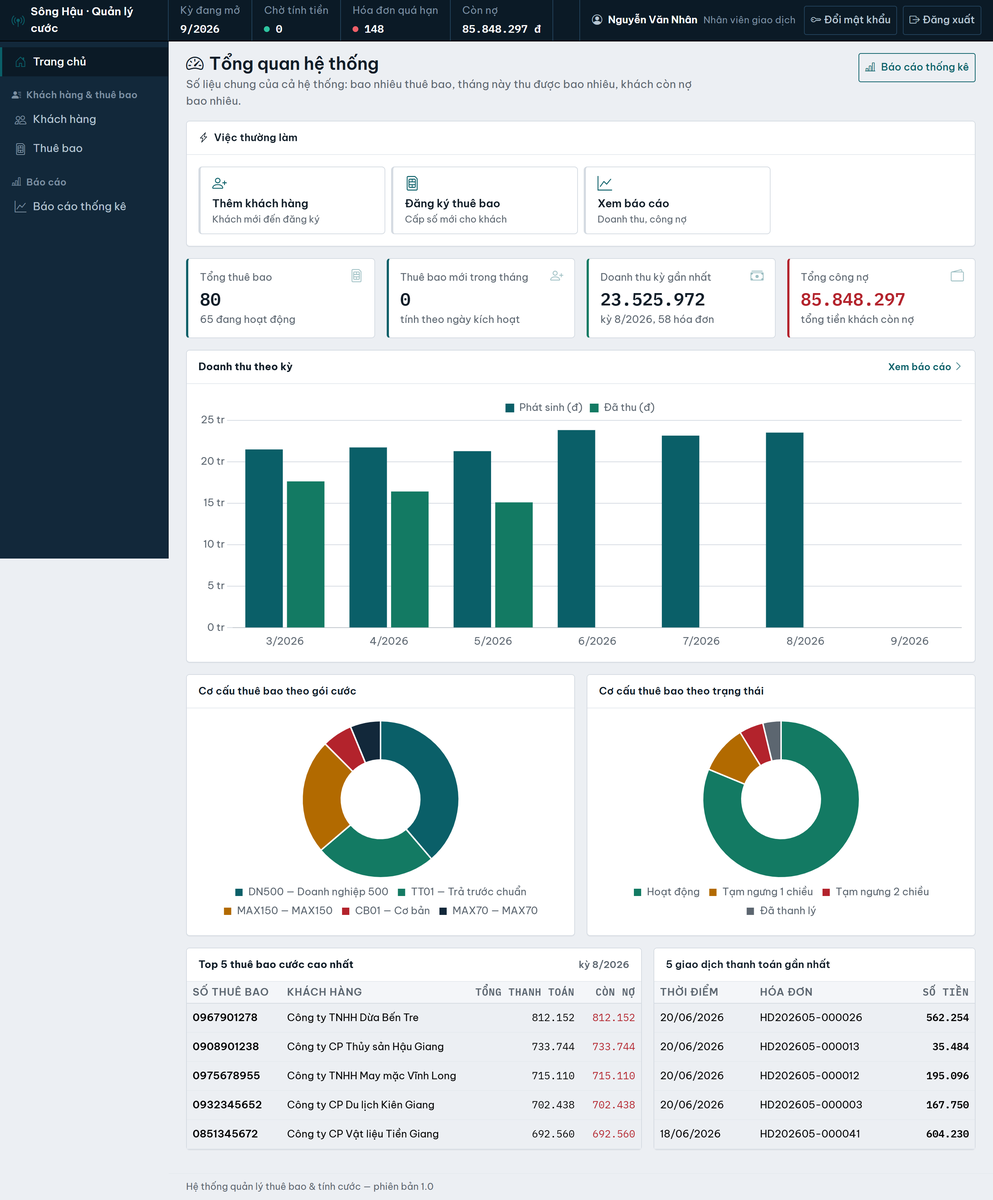
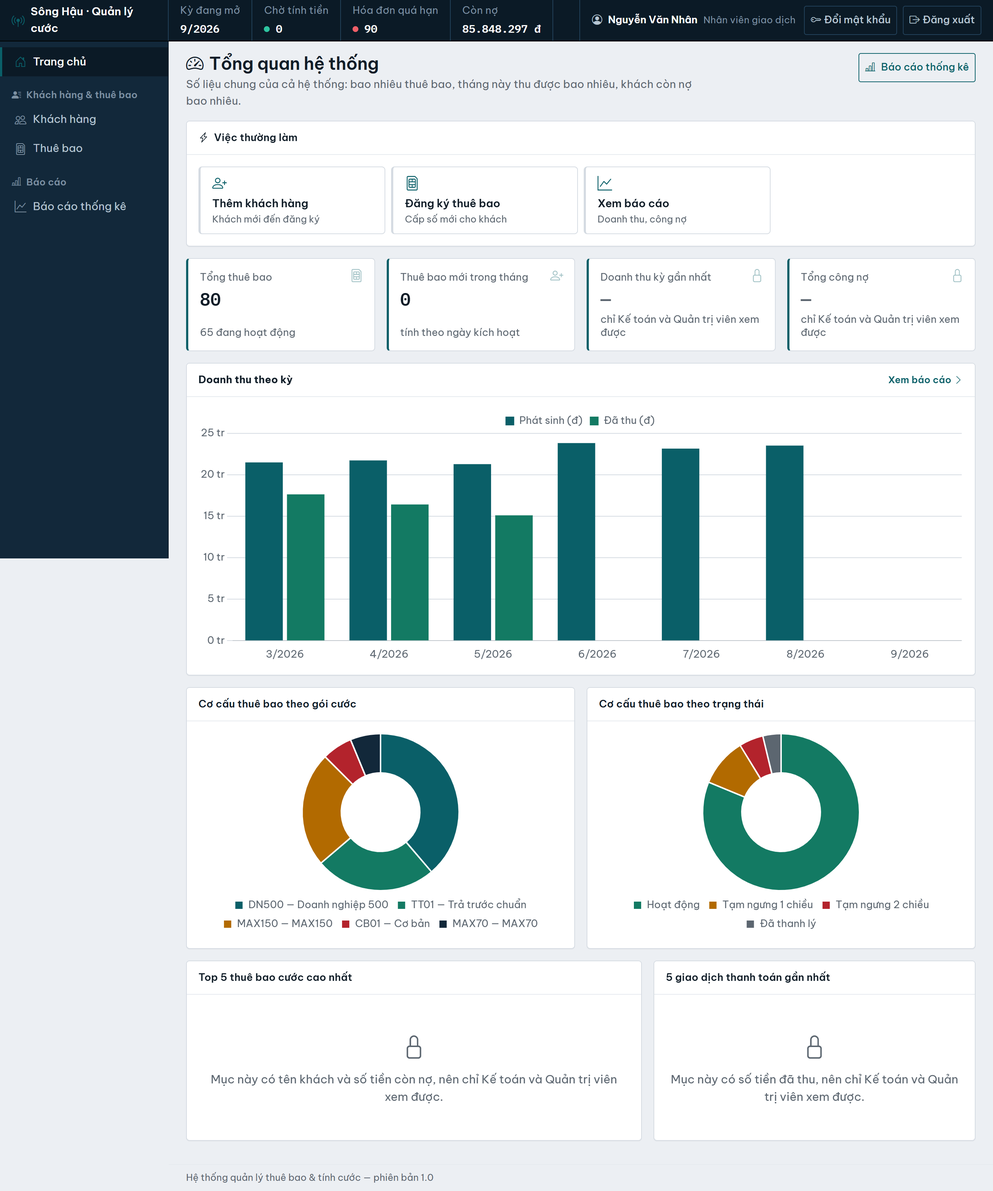
Rao bon khoi tien tren trang chu theo vai tro; chup them 12 anh
A. SUA LO HONG PHAN QUYEN — chi trong templates/index.html
Bon khoi tien (Doanh thu ky gan nhat :121, Tong cong no :135, Top 5 thue bao
:185, 5 giao dich gan nhat :220) truoc day KHONG co sec:authorize, trong khi
SecurityConfig:108-111 chan nhan vien o /bao-cao/top-thue-bao/** vi dung noi
dung do. Nhan vien bi 403 o bao cao nhung nhin duoc ten khach + so no ngay
tren trang chu. Rao ca bon bang hasAnyRole('KE_TOAN','ADMIN'); vai tro khac
nhan the THAY THE cung khung, bieu tuong khoa, mot cau noi ro vi sao — khong
de trong, luoi bon the khong vo. KHONG sua SecurityConfig.

  admin 4 khoi · ketoan01 4 · nhanvien01 0 (4 the khoa)
DOI CHUNG AM: bo dung mot rao (Tong cong no), dung lai, phep kiem keu
"nhanvien01 1 khoi · Tong cong no". Khoi phuc -> dat lai.
Sau sua: mvnw test 342/342 · 8 script 215/215 · 3 phep kiem template dat.

HAI CHO TIEN CON SOT, ngoai pham vi "chi sua index.html" — bao, chua sua:
  1. thanh may (layout.html) hien "Con no 85.848.297 d" cho moi vai tro —
     dung con so vua bi khoa o the Tong cong no ben duoi
  2. bieu do Doanh thu theo ky + link Xem bao cao -> /bao-cao/doanh-thu-ky
     (nhan vien bam vao nhan 403)

MENU TREN RAIL (phep kiem phan quyen cho anh 03/63/65, dem tren DOM):
  admin 14 · nhanvien01 4 · ketoan01 6. Doi chung: admin vs admin -> bang nhau.

B/C/D. 12 ANH MOI, du lieu kiem SAU TUNG ANH — khong lech lan nao:
  63  chup lai sau khi rao — 4 the khoa, khong con ten khach/so tien
[…]

diff --git a/src/main/resources/templates/index.html b/src/main/resources/templates/index.html
@@ -116,8 +116,18 @@
                 <i class="bi bi-person-plus"></i>
             </div>
         </div>
+        <!--/*
+            Bốn khối tiền dưới đây rào cùng mức với /bao-cao/top-thue-bao/** trong
+            SecurityConfig: chỉ KE_TOAN và ADMIN. Trước đợt này chúng KHÔNG có rào,
+            nên nhân viên giao dịch bị chặn ở /bao-cao/top-thue-bao (403) mà vẫn
+            nhìn được đúng bảng đó ngay trên trang chủ — phân quyền theo nội dung
+            bị hở ở chính màn hình đầu tiên sau đăng nhập.
+
+            Vai trò không được phép nhận một thẻ THAY THẾ cùng khung, nói rõ vì sao
+            không thấy — không để trống, và không làm lưới bốn thẻ vỡ.
+        */-->
         <div class="col-sm-6 col-xl-3">
-            <div class="the-so-lieu vach-on">
+            <div class="the-so-lieu vach-on" sec:authorize="hasAnyRole('KE_TOAN','ADMIN')">
                 <span class="nhan">Doanh thu kỳ gần nhất</span>
                 <span class="gia-tri" th:if="${dashboard.kyGanNhat != null}"
                       th:text="${@soLieu.tien(dashboard.kyGanNhat.phatSinh)}">0</span>
@@ -129,13 +139,25 @@
                 <span class="phu" th:if="${dashboard.kyGanNhat == null}">chưa lập hóa đơn nào</span>
                 <i class="bi bi-cash-stack"></i>
             </div>
+            <div class="the-so-lieu" sec:authorize="!hasAnyRole('KE_TOAN','ADMIN')">
+                <span class="nhan">Doanh thu kỳ gần nhất</span>
+                <span class="gia-tri trong">—</span>
+                <span class="phu">chỉ Kế toán và Quản trị viên xem được</span>
+                <i class="bi bi-lock"></i>
+            </div>
         </div>
         <div class="col-sm-6 col-xl-3">
-            <div class="the-so-lieu vach-loi">
+            <div class="the-so-lieu vach-loi" sec:authorize="hasAnyRole('KE_TOAN','ADMIN')">
                 <span class="nhan">Tổng công nợ</span>
                 <span class="gia-tri" th:text="${@soLieu.tien(dashboard.tongCongNo)}">0</span>
                 <span class="phu">tổng tiền khách còn nợ</span>
                 <i class="bi bi-wallet2"></i>
+            </div>
+            <div class="the-so-lieu" sec:authorize="!hasAnyRole('KE_TOAN','ADMIN')">
+                <span class="nhan">Tổng công nợ</span>
+                <span class="gia-tri trong">—</span>
+                <span class="phu">chỉ Kế toán và Quản trị viên xem được</span>
+                <i class="bi bi-lock"></i>
             </div>
         </div>
     </div>
@@ -180,7 +202,15 @@
     <!--/* ================== HAI BẢNG ================== */-->
     <div class="row g-3">
         <div class="col-lg-7">
-            <div class="card shadow-sm h-100">
+            <div class="card shadow-sm h-100" sec:authorize="!hasAnyRole('KE_TOAN','ADMIN')">
+                <div class="card-header bg-white fw-semibold">Top 5 thuê bao cước cao nhất</div>
+                <div class="card-body text-center text-secondary py-5">
+                    <i class="bi bi-lock d-block fs-2 mb-2"></i>
+                    Mục này có tên khách và số tiền còn nợ, nên chỉ Kế toán và Quản trị viên
+                    xem được.
+                </div>
+            </div>
+            <div class="card shadow-sm h-100" sec:authorize="hasAnyRole('KE_TOAN','ADMIN')">
                 <div class="card-header bg-white d-flex align-items-center">
                     <strong>Top 5 thuê bao cước cao nhất</strong>
                     <span class="ms-auto small text-secondary" th:if="${dashboard.kyGanNhat != null}"
@@ -216,7 +246,14 @@
             </div>
         </div>
         <div class="col-lg-5">
-            <div class="card shadow-sm h-100">
+            <div class="card shadow-sm h-100" sec:authorize="!hasAnyRole('KE_TOAN','ADMIN')">
+                <div class="card-header bg-white fw-semibold">5 giao dịch thanh toán gần nhất</div>
+                <div class="card-body text-center text-secondary py-5">
+                    <i class="bi bi-lock d-block fs-2 mb-2"></i>
+                    Mục này có số tiền đã thu, nên chỉ Kế toán và Quản trị viên xem được.
+                </div>
+            </div>
+            <div class="card shadow-sm h-100" sec:authorize="hasAnyRole('KE_TOAN','ADMIN')">
                 <div class="card-header bg-white fw-semibold">5 giao dịch thanh toán gần nhất</div>
                 <div class="card-body p-0">
                     <div class="table-responsive">

diff --git a/docs/DANH-SACH-ANH-DA-CHUP.md b/docs/DANH-SACH-ANH-DA-CHUP.md
@@ -32,6 +32,129 @@ tự mâu thuẫn với chính nó.
 
 ---
 
+## Đợt bổ sung 11/09/2026 — sửa rào phân quyền, chụp thêm 12 ảnh
+
+### A. Lỗ hổng phân quyền trên trang chủ — đã sửa, chỉ trong `index.html`
+
+Trước: bốn khối tiền — *Doanh thu kỳ gần nhất* (dòng 121), *Tổng công nợ* (135), *Top 5 thuê bao
+cước cao nhất* (185), *5 giao dịch thanh toán gần nhất* (220) — **không có `sec:authorize`**, trong
+khi `SecurityConfig:108-111` chặn nhân viên ở `/bao-cao/top-thue-bao/**` vì đúng nội dung đó.
+Nhân viên bị 403 ở báo cáo nhưng nhìn được tên khách và số nợ ngay trang chủ.
+
+Sau: cả bốn khối rào `hasAnyRole('KE_TOAN','ADMIN')`. Vai trò khác nhận **thẻ thay thế cùng khung**
+với biểu tượng khoá và một câu nói rõ vì sao — không để trống, lưới bốn thẻ không vỡ.
+**Không sửa `SecurityConfig`** — cấu hình đó đúng, template mới là chỗ sai.
+
+| Vai trò | Khối tiền thật hiện ra | Thẻ khoá | |
+|---|--:|--:|:--:|
+| admin | **4** | 0 | ✅ |
+| ketoan01 | **4** | 0 | ✅ |
+| nhanvien01 | **0** | 4 | ✅ |
+
+**Đối chứng âm:** bỏ đúng một rào (*Tổng công nợ*), dựng lại, chạy lại → phép kiểm kêu
+*"nhanvien01 1 khối · Tổng công nợ"*. Khôi phục → đạt lại.
+
+Sau sửa: `mvnw test` **342/342** · 8 script giao diện **215/215** · 3 phép kiểm template đạt.
+
+> ⚠ **Hai chỗ tiền còn sót, ngoài phạm vi "chỉ sửa `index.html`" — chưa sửa, cần bạn quyết:**
+>
+> 1. **Thanh máy** (`fragments/layout.html`) hiện *"Còn nợ 85.848.297 đ"* cho **mọi** vai trò — đúng con
+>    số vừa bị khoá ở thẻ *Tổng công nợ* ngay bên dưới. Khoá thẻ mà để nguyên thanh máy là tự mâu thuẫn.
+> 2. **Biểu đồ Doanh thu theo kỳ** (`index.html`, ngoài 4 khối đã nêu): tiền theo kỳ, kèm link *Xem báo
+>    cáo* → `/bao-cao/doanh-thu-ky` — nhân viên bấm vào nhận 403.
+
+### Số mục menu trên rail — phép kiểm phân quyền cho ảnh 03 · 63 · 65
+
+Đếm trên DOM trang thật, cùng khung 1366 với lúc chụp (rail 232px, mở đầy đủ):
+
+| Ảnh | Vai trò | Mục menu |
+|---|---|--:|
+| 03 | admin | **14** |
+| 63 | nhanvien01 | **4** |
+| 65 | ketoan01 | **6** |
+
+03 > 63 ✅ · 03 > 65 ✅. **Đối chứng âm:** admin so với chính admin → *"bằng nhau"* — phép kiểm biết kêu.
+
+### 12 ảnh mới — cách chụp và bằng chứng không ghi dữ liệu
+
+| # | Cách lấy | Dữ liệu sau khi chụp |
+|---|---|---|
+| 63 | Chụp lại sau khi rào | — |
+| 27 | Bấm *Chốt kỳ* kỳ 7 → `app.js` gọi `preventDefault()` rồi mở modal → chụp → **Esc** | kỳ 7 vẫn `MO` |
+| 08 | POST CCCD 11 số → máy chủ từ chối, form giữ nguyên dữ liệu đã nhập | `khach_hang` = 50 |
+| 35 | POST 999.999.999 đ cho hóa đơn còn nợ 160.648 đ → từ chối | `thanh_toan` = 161 |
+| 40 | POST khai **cả** tiền lẫn tỷ lệ → `@AssertTrue` từ chối | `giam_tru` = 2 |
+| 36 | POST thẳng `/tinh-cuoc/2/huy-hoa-don` (UI đã ẩn nút) → *"Kỳ cước tháng 5/2026 đã chốt, không thể hủy hóa đơn"* | `hoa_don` = 338 |
+| 37 · 38 · 51 · 52a · 52b · 80 · 81 | Ảnh **chụp tay** của bạn, đổi tên từ zip (hash khớp từng file) | — |
+
+Dữ liệu kiểm **sau từng ảnh**: 7 kỳ · 23.223 CDR · 338 hóa đơn · 161 thanh toán · kỳ 9 `MO` 0/0 — không
+lệch lần nào.
+
+> **Ảnh 36 khác mô tả trong danh sách gốc.** Danh sách ghi thông báo *"48 giao dịch"* (chặn huỷ vì đã thu
+> tiền). Nhưng kỳ 5 nay đã **`DA_CHOT`**, và rào "đã chốt" đứng **trước** rào "đã thu tiền" trong
+> `huyBillingKy`, nên thông báo thật là *"đã chốt, không thể hủy"*. Muốn ra đúng câu *"48 giao dịch"*
+> phải mở lại kỳ 5 — một thao tác ghi. Ảnh vẫn chứng minh điều quan trọng hơn: **gõ thẳng đường dẫn
+> vẫn bị chặn ở tầng nghiệp vụ** (bài học 4.4), dù giao diện đã ẩn nút.
+
+> **Hai lần chụp sai của tôi, đã chụp lại.** Ảnh 35 lượt đầu hiện *"Vui lòng chọn hình thức thanh toán"*
+> — tôi bỏ trống ô hình thức nên `@NotNull` nổ **trước** rào "vượt số còn nợ". Ảnh 40 lượt đầu lẫn hai
+> lỗi *"Vui lòng chọn…"* vì bỏ trống thuê bao và loại. Cả hai chụp lại với các ô khác đã điền đúng, để
+> **chỉ còn đúng một lỗi** cần thấy.
+
+### Thanh máy: 148 hôm qua, 90 hôm nay — không phải lỗi, nhưng cần biết
+
+Thanh máy đếm hóa đơn **theo trạng thái** `QUA_HAN`; bảng tuổi nợ đếm **theo ngày**. Hôm nay
+`test-muc-F.ps1` (một trong 8 script bạn yêu cầu chạy) huỷ rồi lập lại 58 hóa đơn kỳ 6 — hóa đơn mới
+sinh ra ở `CHUA_TT`, nên thanh máy tụt từ 148 xuống **90** dù không hóa đơn nào bớt quá hạn.
+
+`capNhatQuaHan()` chạy lúc **00:05** hằng ngày *hoặc* khi ai đó **mở `/hoa-don`** (`LichChayNenConfig`,
+thiết kế cố ý). Lần mở `/hoa-don` kế tiếp sẽ trả về 148. Tôi **không tự kích hoạt** vì đó là một thao
+tác đổi trạng thái. Hệ quả: 6 ảnh chụp hôm nay (08 · 27 · 35 · 36 · 40 · 63) ghi **90** trên thanh máy,
+55 ảnh hôm qua ghi **148**. Nếu muốn đồng nhất: mở `/hoa-don` một lần rồi chụp lại 6 ảnh đó.
+
+### F. Rail chỉ phủ khung nhìn đầu — đo trên 37 ảnh chụp cả trang có rail
+
+Rail là `position: fixed`, cao bằng khung nhìn. Đo cột x = 60px trên từng ảnh: rail dừng đúng **768px**
+ở **mọi** ảnh. Đối chứng: 9 ảnh cao ≤ 780px ra 100%, 18 ảnh cao > 1500px ra trung bình 35%.
+
+| Mức | Rail phủ | Số ảnh |
+|---|---|--:|
+| **Nặng** | dưới 60% | **20** |
+| Vừa | 60–95% | 8 |
+| Ổn | từ 95% | 9 |
+
+Danh sách ảnh **nặng** (cột tối cụt ngang rõ nhất khi in):
+
+| # | Ảnh | Cao (px) | Rail phủ |
+|---|---|--:|--:|
+| 77 | `77-hoa-don-cua-ky-8.png` | 4530 | 17% |
+| 23 | `23-doi-soat-sat-ranh-gioi-quota.png` | 3986 | 19% |
+| 22 | `22-doi-soat-vuot-quota-data.png` | 3965 | 19% |
+| 70 | `70-doi-soat-ky-8.png` | 3965 | 19% |
+| 47 | `47-bao-cao-top-thue-bao.png` | 3632 | 21% |
+| 28 | `28-danh-sach-hoa-don-ky-5.png` | 2053 | 37% |
+| 75 | `75-danh-sach-hoa-don-tat-ca.png` | 2014 | 38% |
+| 79 | `79-danh-sach-hoa-don-ky-8.png` | 2014 | 38% |
+| 6 | `06-danh-sach-khach-hang.png` | 1970 | 39% |
+| 19 | `19-tra-cuu-cdr.png` | 1962 | 39% |
+| 78 | `78-tra-cuu-cdr-co-bo-loc.png` | 1962 | 39% |
+| 46 | `46-bao-cao-thong-ke-thue-bao.png` | 1889 | 41% |
+| 20 | `20-man-hinh-tinh-cuoc.png` | 1869 | 41% |
+| 33 | `33-danh-sach-thanh-toan.png` | 1825 | 42% |
+| 3 | `03-dashboard-admin.png` | 1750 | 44% |
+| 63 | `63-dashboard-nhanvien.png` | 1650 | 47% |
+| 65 | `65-dashboard-ketoan.png` | 1650 | 47% |
+| 14 | `14-bang-gia.png` | 1526 | 50% |
+| 43 | `43-bao-cao-doanh-thu-ky.png` | 1399 | 55% |
+| 10 | `10-danh-sach-thue-bao.png` | 1370 | 56% |
+
+**Chưa sửa — bạn quyết.** Ba hướng: (a) chấp nhận, rail cụt là tính chất của ảnh cả trang; (b) chụp
+**khung nhìn** thay vì cả trang cho các trang danh sách dài — mất phần dưới nhưng rail liền; (c) chụp
+cả trang rồi cắt bỏ rail bằng `clip` từ x = 232px — mất menu nhưng ảnh sạch. Hướng (c) hợp với báo cáo
+in nhất vì menu đã có riêng ở ảnh 03/63/65.
+
+---
+
 ## Cấu hình chụp
 
 | | |
@@ -71,7 +194,7 @@ Trước khi tin bất kỳ số 0 nào, bộ kiểm tự tạo **hai ảnh mồ
 > vượt ngưỡng 40, và ảnh trắng tuyền bị tính là **100% nội dung**. Phép kiểm trắng **không bao giờ
 > nổ được**. Sửa sang lấy **tâm khoang** (`×16 + 8`) thì mồi nổ đúng.
 
-Kết quả trên **55 ảnh thật**:
+Kết quả trên **60 ảnh tự động** (chạy lại 11/09 sau khi thêm 12 ảnh; 7 ảnh chụp tay cũng qua cùng bộ kiểm):
 
 | Phép kiểm | Kết quả |
 |---|---|
@@ -80,19 +203,21 @@ Kết quả trên **55 ảnh thật**:
 | Ảnh dưới 20 KB | **0** |
 | Ảnh cao dưới 400px | **0** |
 | Trang lỗi bị chụp nhầm | **0** — ảnh 2 (403) và 59 (400) là **cố ý**, đã khai vào danh sách cho phép |
-| Thiếu sổ tay / sổ tay thừa | **0 / 0** |
+| Thiếu sổ tay / sổ tay thừa | **0 / 0** với ảnh tự động — 7 ảnh chụp tay không có sổ tay, đúng bản chất |
+| Ảnh cao dưới 400px — **4 ảnh chụp tay** (51 · 52a · 52b · 80: 161–182px) | Cảnh báo **đúng**: đó là ảnh cắt gọn một dòng console và một biểu tượng. Giữ nguyên phép kiểm, không tắt |
 
 ---
 
-## Bảng đối chiếu — 55 ảnh
+## Bảng đối chiếu — 67 ảnh
 
-| # | Tên file | URL | Vai trò | Cỡ | Kiểu chụp | Ghi chú |
+| # | Tên file | URL / nội dung | Vai trò | Cỡ | Kiểu chụp | Ghi chú |
 |---|---|---|---|--:|---|---|
 | 1 | `01-dang-nhap.png` | `/dang-nhap` | (chua dang nhap) | 59 KB | khung nhìn | — |
 | 2 | `02-trang-403.png` | `/hoa-don` | nhanvien01 | 138 KB | khung nhìn | — |
 | 3 | `03-dashboard-admin.png` | `/` | admin | 561 KB | cả trang | — |
 | 6 | `06-danh-sach-khach-hang.png` | `/khach-hang` | admin | 724 KB | cả trang | — |
 | 7 | `07-form-them-khach-ca-nhan.png` | `/khach-hang/them` | admin | 223 KB | khung nhìn | — |
+| 8 | `08-validation-chan-cccd-sai.png` | `/khach-hang/luu` | admin | 275 KB | cả trang | POST bị từ chối |
 | 9 | `09-chi-tiet-khach-hang.png` | `/khach-hang/1` | admin | 271 KB | cả trang | — |
 | 10 | `10-danh-sach-thue-bao.png` | `/thue-bao` | admin | 625 KB | cả trang | — |
 | 11 | `11-chi-tiet-thue-bao-tra-truoc.png` | `/thue-bao/4` | admin | 265 KB | cả trang | — |
@@ -107,6 +232,7 @@ Kết quả trên **55 ảnh thật**:
 | 22 | `22-doi-soat-vuot-quota-data.png` | `/tinh-cuoc/doi-soat/21/1` | admin | 1627 KB | cả trang | — |
 | 23 | `23-doi-soat-sat-ranh-gioi-quota.png` | `/tinh-cuoc/doi-soat/34/1` | admin | 1674 KB | cả trang | — |
 | 26 | `26-ban-in-a4-bang-doi-soat.png` | `/tinh-cuoc/doi-soat/21/1` | admin | 1792 KB | cả trang | bản in |
+| 27 | `27-modal-canh-bao-chot-ky.png` | `/tinh-cuoc` | admin | 655 KB | cả trang | modal, chưa xác nhận |
 | 28 | `28-danh-sach-hoa-don-ky-5.png` | `/hoa-don?kyCuocId=2` | admin | 916 KB | cả trang | — |
 | 29 | `29-chi-tiet-hoa-don-tra-hai-dot.png` | `/hoa-don/307` | admin | 474 KB | cả trang | — |
 | 30 | `30-cong-no.png` | `/cong-no` | ketoan01 | 530 KB | cả trang | cắt 1366x1250 · chặn cao 21412 -> 1250 px |
@@ -114,7 +240,12 @@ Kết quả trên **55 ảnh thật**:
 | 32 | `32-de-xuat-tam-ngung.png` | `/cong-no` | ketoan01 | 690 KB | cả trang | cắt 1102x1400 · chặn cao 6988 -> 1400 px |
 | 33 | `33-danh-sach-thanh-toan.png` | `/thanh-toan` | ketoan01 | 925 KB | cả trang | — |
 | 34 | `34-form-ghi-nhan-thanh-toan.png` | `/thanh-toan/moi/3123` | ketoan01 | 242 KB | khung nhìn | — |
+| 35 | `35-chan-thu-vuot-so-con-no.png` | `/thanh-toan (POST)` | ketoan01 | 317 KB | cả trang | POST bị từ chối |
+| 36 | `36-chan-huy-hoa-don-ky-da-chot.png` | `POST /tinh-cuoc/2/huy-hoa-don` | admin | 722 KB | cả trang | POST bị từ chối |
+| 37 | `37-hoa-don-pdf.png` | PDF hóa đơn HD202608-000058 | (tự chụp) | 147 KB | chụp tay | Snipping Tool, không qua Playwright |
+| 38 | `38-phieu-thu-pdf.png` | PDF phiếu thu TT20260620-0004 | (tự chụp) | 97 KB | chụp tay | Snipping Tool, không qua Playwright |
 | 39 | `39-danh-sach-giam-tru.png` | `/giam-tru` | admin | 303 KB | cả trang | — |
+| 40 | `40-chan-khai-ca-tien-lan-ty-le.png` | `/giam-tru (POST)` | admin | 292 KB | cả trang | POST bị từ chối |
 | 41 | `41-bien-dong-so-du-tra-truoc.png` | `/tinh-cuoc` | admin | 209 KB | cả trang | cắt 1102x667 |
 | 42 | `42-menu-bao-cao.png` | `/bao-cao` | admin | 392 KB | cả trang | — |
 | 43 | `43-bao-cao-doanh-thu-ky.png` | `/bao-cao/doanh-thu-ky` | admin | 433 KB | cả trang | — |
@@ -124,9 +255,12 @@ Kết quả trên **55 ảnh thật**:
 | 47 | `47-bao-cao-top-thue-bao.png` | `/bao-cao/top-thue-bao?soLuong=50` | admin | 1828 KB | cả trang | — |
 | 48 | `48-bao-cao-san-luong.png` | `/bao-cao/san-luong?kyCuocId=3` | admin | 379 KB | cả trang | — |
 | 50 | `50-ban-in-bao-cao-doanh-thu.png` | `/bao-cao/doanh-thu-ky` | admin | 258 KB | cả trang | bản in |
+| 51 | `51-ket-qua-342-test-tu-dong.png` | Console: Tests run 342, Failures 0 | (tự chụp) | 15 KB | chụp tay | Snipping Tool, không qua Playwright |
+| 52a | `52a-doi-chung-am-do-27-test-4-loi.png` | Console: 27 test, 4 lỗi sau khi gỡ luật | (tự chụp) | 14 KB | chụp tay | Snipping Tool, không qua Playwright |
+| 52b | `52b-doi-chung-am-xanh-27-test-0-loi.png` | Console: 27 test, 0 lỗi sau khôi phục | (tự chụp) | 15 KB | chụp tay | Snipping Tool, không qua Playwright |
 | 59 | `59-trang-loi-400.png` | `/hoa-don/abc` | admin | 176 KB | khung nhìn | — |
 | 61 | `61-rail-thu-gon-duoi-992px.png` | `/` | admin | 206 KB | khung nhìn | — |
-| 63 | `63-dashboard-nhanvien.png` | `/` | nhanvien01 | 480 KB | cả trang | — |
+| 63 | `63-dashboard-nhanvien.png` | `/` | nhanvien01 | 363 KB | cả trang | — |
 | 64 | `64-bao-cao-cong-no.png` | `/bao-cao/cong-no` | ketoan01 | 411 KB | cả trang | — |
 | 65 | `65-dashboard-ketoan.png` | `/` | ketoan01 | 480 KB | cả trang | — |
 | 66 | `66-form-them-khach-doanh-nghiep.png` | `/khach-hang/them` | admin | 223 KB | khung nhìn | — |
@@ -143,27 +277,19 @@ Kết quả trên **55 ảnh thật**:
 | 77 | `77-hoa-don-cua-ky-8.png` | `/tinh-cuoc/ky/8` | admin | 1936 KB | cả trang | — |
 | 78 | `78-tra-cuu-cdr-co-bo-loc.png` | `/cdr?loaiDichVu=DATA&huong=NOI_MANG` | admin | 950 KB | cả trang | — |
 | 79 | `79-danh-sach-hoa-don-ky-8.png` | `/hoa-don?kyCuocId=8` | admin | 925 KB | cả trang | — |
+| 80 | `80-bieu-tuong-desktop.png` | Biểu tượng trên màn hình nền | (tự chụp) | 29 KB | chụp tay | Snipping Tool, không qua Playwright |
+| 81 | `81-cua-so-khoi-dong.png` | Cửa sổ khởi động năm bước | (tự chụp) | 49 KB | chụp tay | Snipping Tool, không qua Playwright |
+
 ---
 
-## Chưa chụp được — 24 mục, kèm lý do
+## Chưa chụp được — 15 mục, kèm lý do
 
-Đặc tả lượt này cấm **mọi thao tác ghi dữ liệu** và cấm chạy 8 script trong `scripts/`. Những mục
-dưới đây đều cần một trong hai thứ đó, hoặc cần công cụ ngoài trình duyệt.
+### Cần ghi dữ liệu thật — không làm
 
-### Cần thao tác GHI dữ liệu — bị cấm ở lượt này
-
-| # | Ảnh | Cần làm gì | Vì sao chưa chụp |
-|---|---|---|---|
-| 17 | Kết quả sinh CDR | Bấm **Sinh dữ liệu** | Sinh CDR = ghi vào `chi_tiet_su_dung` |
-| 21 | Hộp kết quả sau khi chạy | Huỷ rồi lập lại hóa đơn kỳ 6 | Xoá + tạo lại 58 hóa đơn |
-| 27 | Modal cảnh báo chốt kỳ | Bấm **Chốt kỳ** | Nút mở modal, nhưng bấm nhầm một lần là **chốt kỳ vĩnh viễn** — không đáng liều |
-| 36 | Chặn huỷ hóa đơn kỳ đã thu | Bấm **Huỷ hóa đơn** kỳ 5 | Cùng lý do: nếu chốt chặn không nổ thì mất 54 hóa đơn |
-| 8 | Validation chặn CCCD sai | Nhập CCCD 11 số rồi **Lưu** | Gửi form = POST |
-| 35 | Chặn thu vượt số còn nợ | Nhập số lớn hơn còn nợ rồi **Lưu** | Gửi form = POST |
-| 40 | Chặn khai cả tiền lẫn tỷ lệ | Nhập cả hai rồi **Lưu** | Gửi form = POST |
-
-> Bốn mục 8 · 35 · 40 và 27 **sẽ bị chặn** và không ghi được gì — nhưng *"sẽ bị chặn"* là điều
-> đang cần chứng minh, nên không thể lấy nó làm lý do để bấm. Chụp tay ở một lượt được phép ghi.
+| # | Ảnh | Vì sao |
+|---|---|---|
+| 17 | Kết quả sinh CDR | Sinh CDR = ghi vào `chi_tiet_su_dung` |
+| 21 | Hộp kết quả sau khi chạy | Huỷ rồi lập lại 58 hóa đơn kỳ 6 |
 
 ### Cần công cụ ngoài trình duyệt
 
@@ -171,35 +297,24 @@ dưới đây đều cần một trong hai thứ đó, hoặc cần công cụ n
 |---|---|---|
 | 4 | Sơ đồ quan hệ 15 bảng | MySQL Workbench → Reverse Engineer |
 | 5 | Hai view | MySQL Workbench |
-| 37 | Hóa đơn PDF | Mở file PDF tải về |
-| 38 | Phiếu thu PDF | Mở file PDF tải về |
 | 49 | File Excel mở trong Excel | Microsoft Excel |
-| 51 | Kết quả 342 test | Console `mvnw test` |
-| 52 | Test ĐỎ → XANH | Console, và **cần `UPDATE` dữ liệu** |
-| 53 | Test bất biến thanh toán | Console |
-| 54 | Test hạt giống bộ sinh CDR | Console |
-| 55 | Test bất biến điều hướng | Console |
-| 56 | Script đi theo menu | `scripts/test-dieu-huong.ps1` — **cấm chạy lượt này** |
-| 57 | Script rà kỳ rỗng | `scripts/test-ky-rong.ps1` — **cấm chạy lượt này** |
-| 58 | Script trường hợp biên | `scripts/test-bien.ps1` — **cấm chạy lượt này** |
-| 62 | Lịch sử Git toàn dự án | Console `git log --oneline` |
+| 53 · 54 · 55 | Ba lớp test bất biến | Console `mvnw test -Dtest=…` |
+| 56 · 57 · 58 | Ba script giao diện | Console — 15/28/42 đạt, đã chạy ở đợt này, chỉ thiếu ảnh |
+| 62 | Lịch sử Git | Console `git log --oneline` |
 
 ### Không dựng được tình huống
 
 | # | Ảnh | Vì sao |
 |---|---|---|
-| 60 | Trang lỗi 500 có mã sự cố | Không có đường nào ép hệ thống lỗi 500 mà không sửa mã |
+| 60 | Trang lỗi 500 có mã sự cố | Không có đường nào ép lỗi 500 mà không sửa mã |
 
 ### Đã nằm trong ảnh khác
 
 | # | Ảnh | Nằm ở đâu |
 |---|---|---|
-| 24 | Khối 4 — đối chiếu hóa đơn | Trong ảnh **22** (chụp cả trang, cao 3.965px, đủ 4 khối) |
-| 25 | Dòng làm vượt ưu đãi | Trong ảnh **22**, khối 3 |
+| 24 · 25 | Khối 4 đối chiếu · dòng vượt ưu đãi | Trong ảnh **22** (cả trang, đủ 4 khối) |
 
----
-
-## Ảnh bổ sung ngoài danh sách gốc — 17 tấm
+## Ảnh bổ sung ngoài danh sách gốc — 19 tấm
 
 Danh sách gốc không có, nhưng đặc tả lượt này yêu cầu (dashboard cả ba vai trò, form đổi động,
 đủ các tab của chi tiết thuê bao) hoặc bổ sung cho đầy đủ phân hệ:
@@ -220,16 +335,15 @@ Danh sách gốc không có, nhưng đặc tả lượt này yêu cầu (dashboa
 | 76 | Chi tiết thuê bao **trả sau** | Ảnh 11 là trả trước |
 | 77 | Hóa đơn của kỳ 8 | |
 | 78 | Tra cứu CDR **có bộ lọc** | Ảnh 19 chưa lọc |
+| 80 · 81 | Biểu tượng Desktop · cửa sổ khởi động | Chụp tay — cách mở phần mềm bằng một cú nháy đúp (đợt G7), không có trong danh sách gốc |
 
 ---
 
 ## Ghi chú vận hành
 
-**Dung lượng:** tổng **30,5 MB** cho 55 ảnh. Thư mục `docs/screenshots/` **chưa** được thêm vào
-`.gitignore` — đặc tả yêu cầu báo trước khi làm việc đó. Đây là quyết định của bạn:
-
-* **Giữ trong git** — ảnh đi cùng báo cáo, ai clone về cũng có. Kho tăng từ ~5,8 MB lên ~36 MB.
-* **Thêm vào `.gitignore`** — kho gọn, nhưng ảnh chỉ nằm trên máy này.
+**Dung lượng:** tổng **32,9 MB** cho 67 ảnh. Thư mục `docs/screenshots/` **giữ trong git** — quyết
+định ngày 10/09: ảnh là tài liệu của báo cáo, ai clone kho về cũng phải có. `tools-chup-anh/` thì
+vẫn `.gitignore` vì đó là công cụ cá nhân, không phải phần mềm được chấm.
 
 **Dữ liệu sau khi chụp — không suy suyển:**
 
